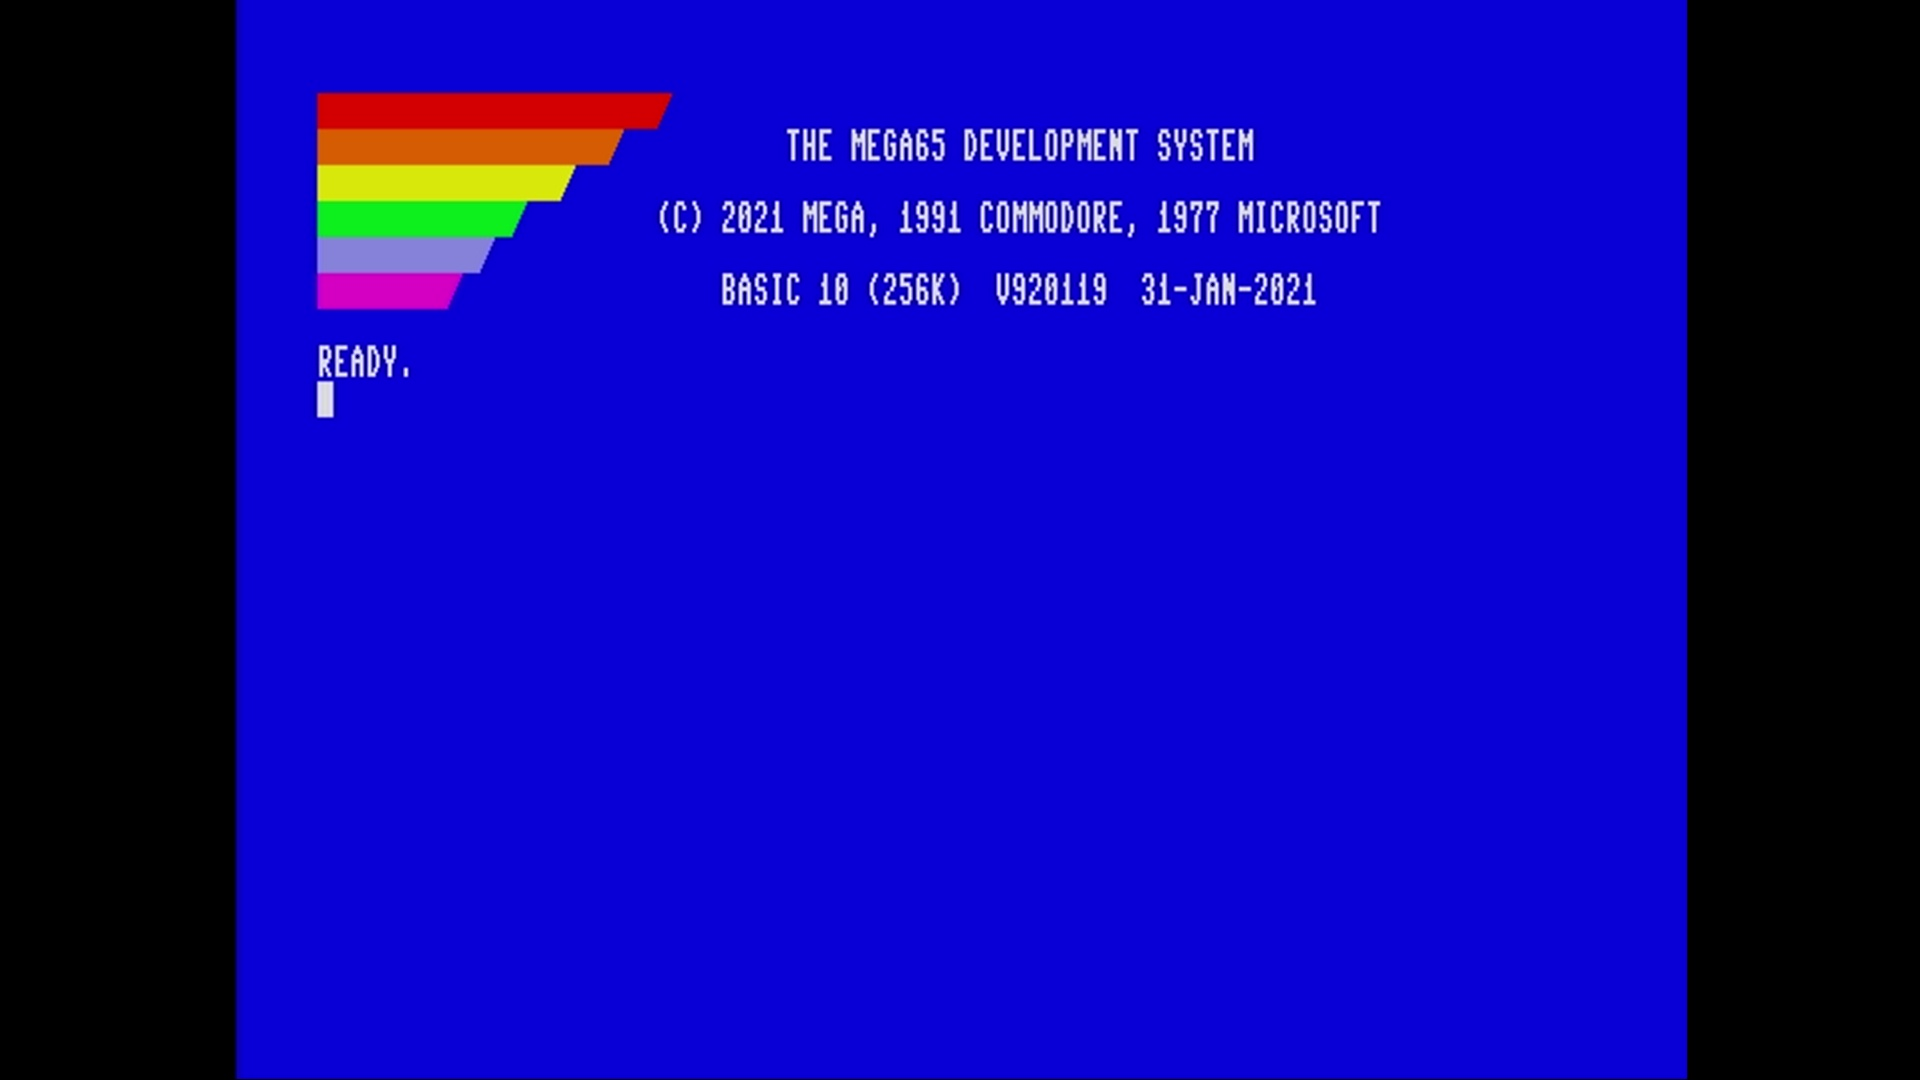
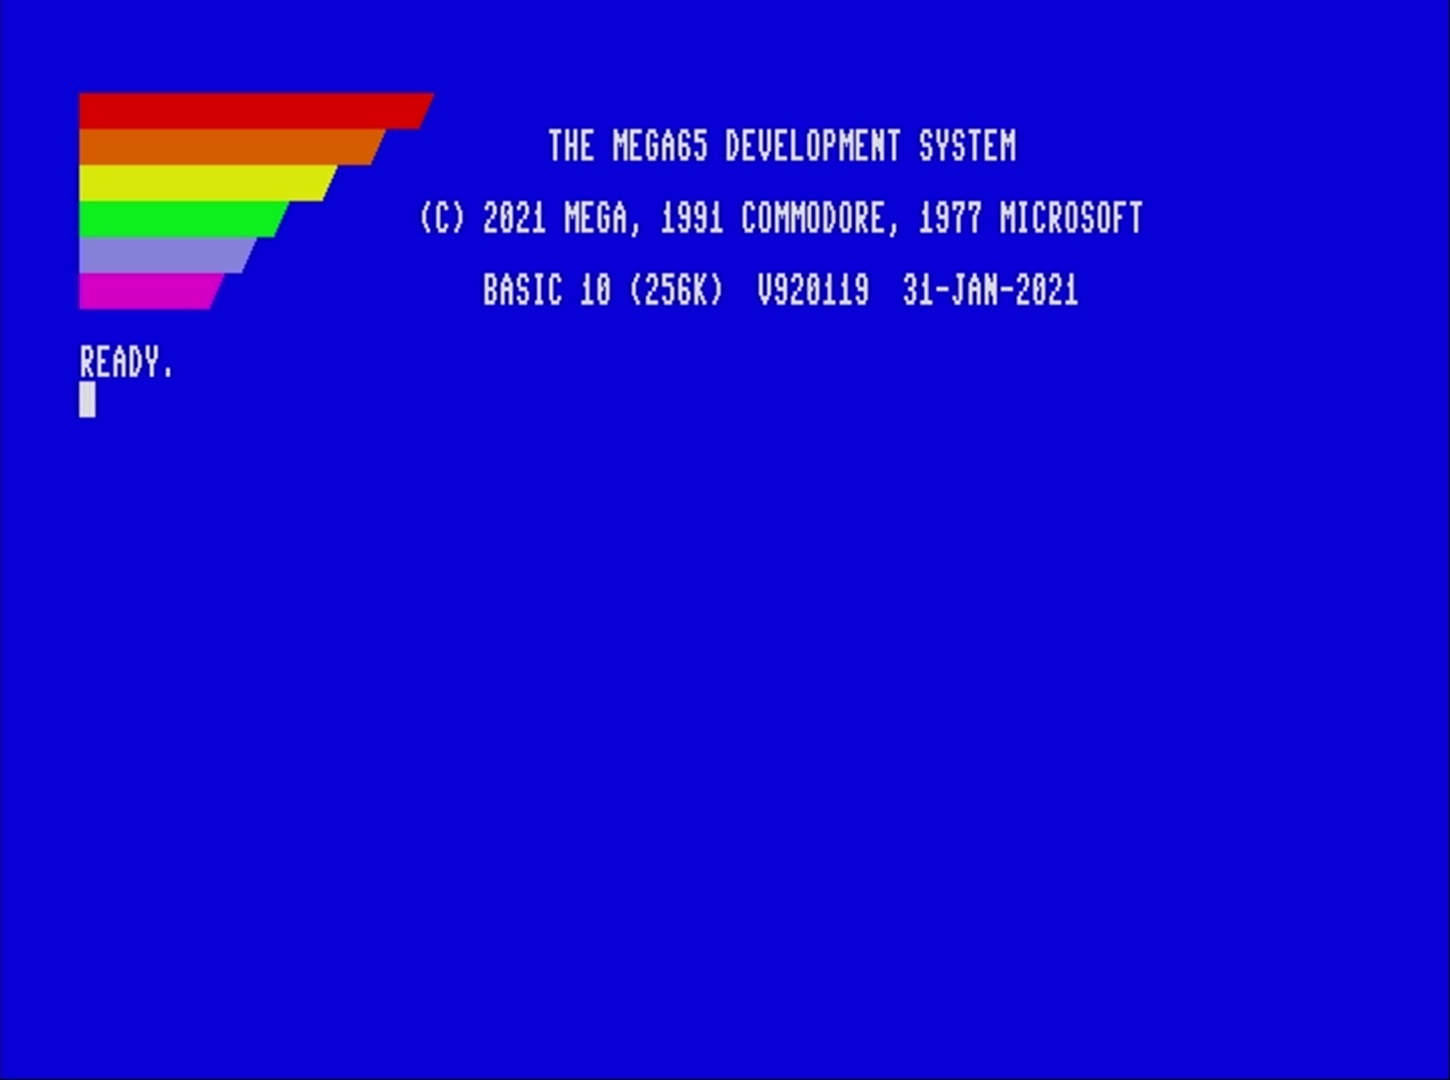
more images

diff --git a/_drafts/2021-10-24-mega65-nexys.md b/_drafts/2021-10-24-mega65-nexys.md
@@ -287,7 +287,7 @@ Everything is prepared to boot the Nexys4 as a MEGA65 using the steps below:
 1. Insert the microSD card into the Nexys4 microSD card reader.
 2. Power on the Nexys4 FPGA using the power switch. The Nexys4 will boot and after a few seconds will display the screen below:
 
-![MEGA65 Start Up Screen](https://www.stevencombs.com/images/mega65/mega65-boot-screen.jpg)
+![MEGA65 Start Up Screen](https://www.stevencombs.com/images/mega65/start-screen.jpg)
 
 ## Operating the MEGA65 on the Nexys4
 
@@ -348,9 +348,11 @@ The virtual keyboard will assist in understanding the keyboard mappings when you
 
 The virtual keyboard shown in the image below will display.
 
-![MEGA65 Utility Application Virtual Keyboard](https://www.stevencombs.com/images/mega65/virtual-keyboard-utility.png)
+![MEGA65 Utility Application Virtual Keyboard](https://www.stevencombs.com/images/mega65/virtual-keyboard-utility.jpg)
 
 *Immediate Mode Keyboard*
+
+<!-- Capture from Cloner as image -->
 
 1. Boot the MEGA65 bitstream on the Nexys4.
 2. Hold the `[MEGA]` key (or Windows key on a Dell keyboard) and press `[TAB]`. The *Matrix Mode Debugger* will appear.
@@ -371,7 +373,7 @@ I have issues with the virtual keyboard, or *Matrix Mode Debugger* screen, appea
 
 There are seven onboard micro-switches and we use the three shown below for the MEGA65 implementation:
 
-![Micro-switches](https://www.stevencombs.com/images/mega65/nexys4-board-switches.png)
+![Micro-switches](https://www.stevencombs.com/images/mega65/nexys4-board-switches.jpg)
 
 1. CPU RESET - Resets the FPGA with the current bitstream and does not clear FPGA memory contents.
 2. PROG - Resets the FPGA, clears FPGA memory contents, and reloads the current bitstream.
